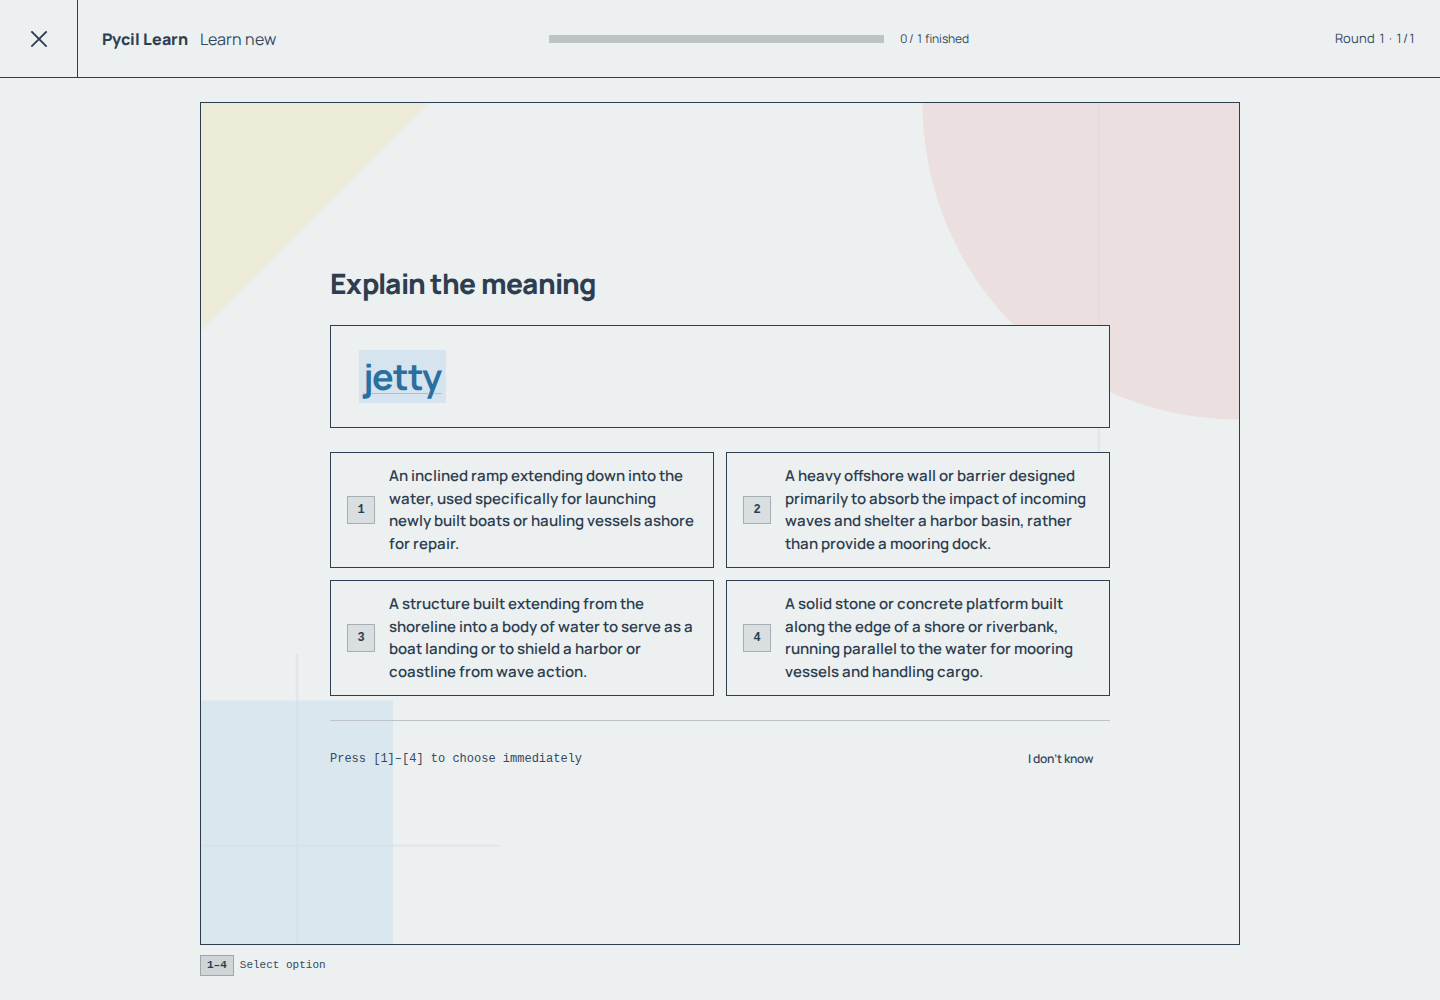
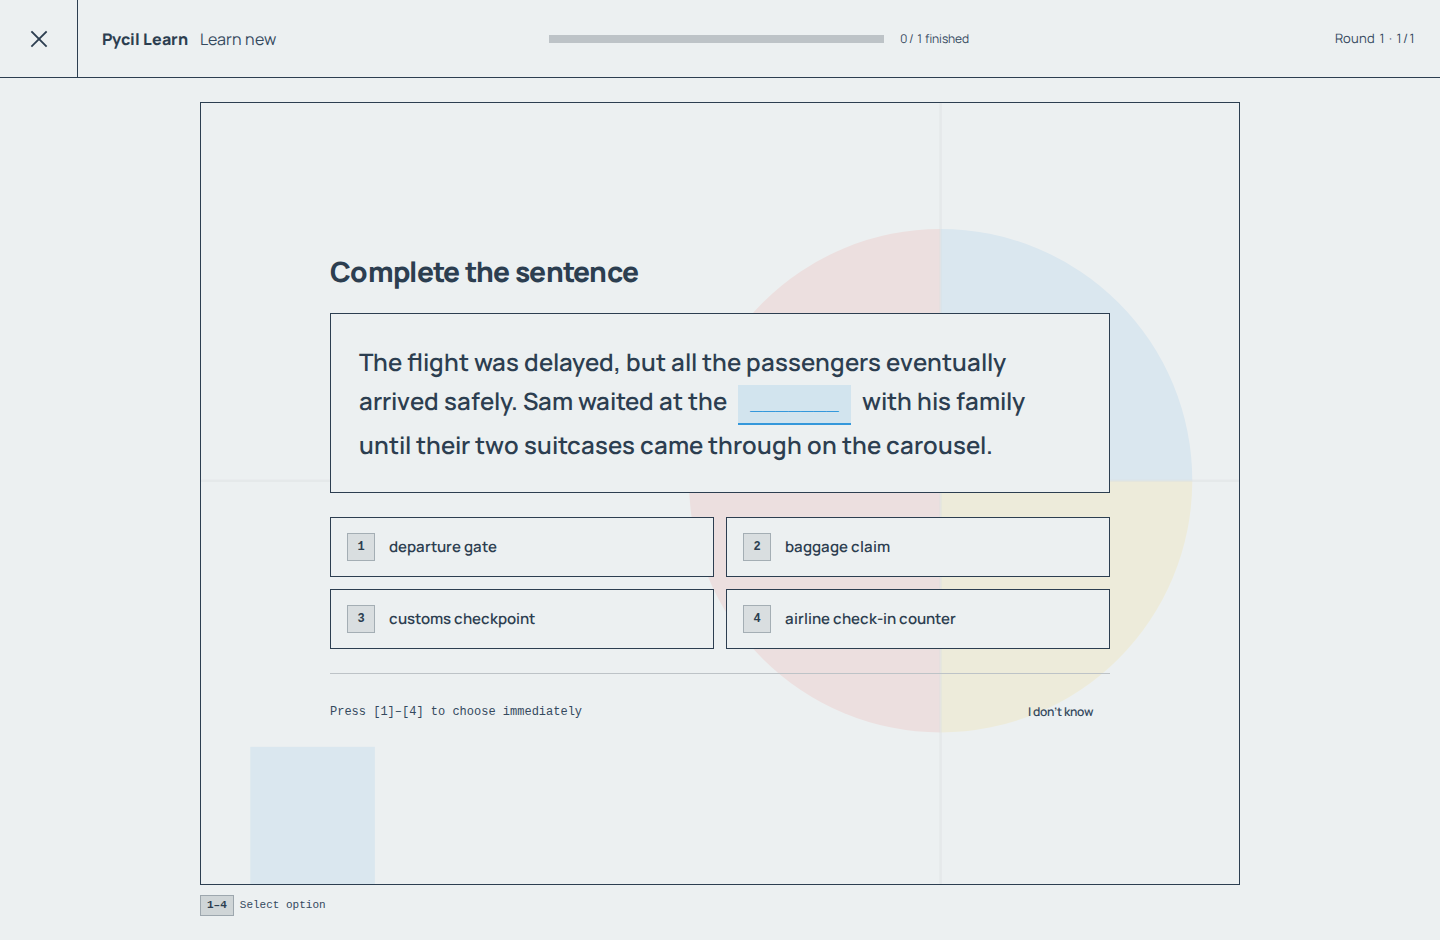
docs: show assistant tools and a generated cloze exercise

diff --git a/README.md b/README.md
@@ -5,7 +5,9 @@
   <p><a href="https://pycil.qninhdt.com"><strong>Try Pycil</strong></a> · <a href="#quickstart">Run locally</a> · <a href="#architecture">Architecture</a></p>
 </div>
 
-[![PycilAI is open beside the Everyday English deck and answers a learner's question about the two noun meanings of bank with an example for each](.github/assets/readme/demo-assistant.png)](.github/assets/readme/demo-assistant.png)
+[![PycilAI looks up airport vocabulary and creates a five-word Lost Luggage deck. The open Thought panel shows the dictionary lookup and deck creation.](.github/assets/readme/demo-assistant.png)](.github/assets/readme/demo-assistant.png)
+
+When a suitcase goes missing, ask PycilAI to build a deck for the conversation at the airline counter. PycilAI finds the relevant meanings and saves the deck to your Library once you approve it.
 
 ## From lookup to practice
 
@@ -17,11 +19,13 @@ Search for a word such as **run** and pick the meaning you want to keep. Each me
 
 ### AI-generated dictionary entries and questions
 
-When a word has no full entry, Pycil can generate its meaning and example sentences on request. Save that meaning to a deck and start a study session. If Pycil has no suitable question ready, it can generate one for you. The two screenshots show that flow for **jetty**, from the generated entry to its first practice question.
+When a word has no full entry, Pycil can generate its meaning and example sentences on request. The Dictionary screenshot shows a generated entry for **jetty**.
 
 ![Generated dictionary entry for jetty with a definition, example sentences, and a button to add the meaning to a deck](.github/assets/readme/demo-ai-dictionary.png)
 
-![Generated practice question asking the learner to identify the meaning of jetty from four choices](.github/assets/readme/demo-ai-question.png)
+Pycil can also write a fresh sentence for a fill-in-the-blank exercise. The example uses a meaning from the **Lost Luggage** deck.
+
+![AI-generated fill-in-the-blank sentence and four answer choices in a Lost Luggage study session](.github/assets/readme/demo-ai-question.png)
 
 ## Quickstart
 
